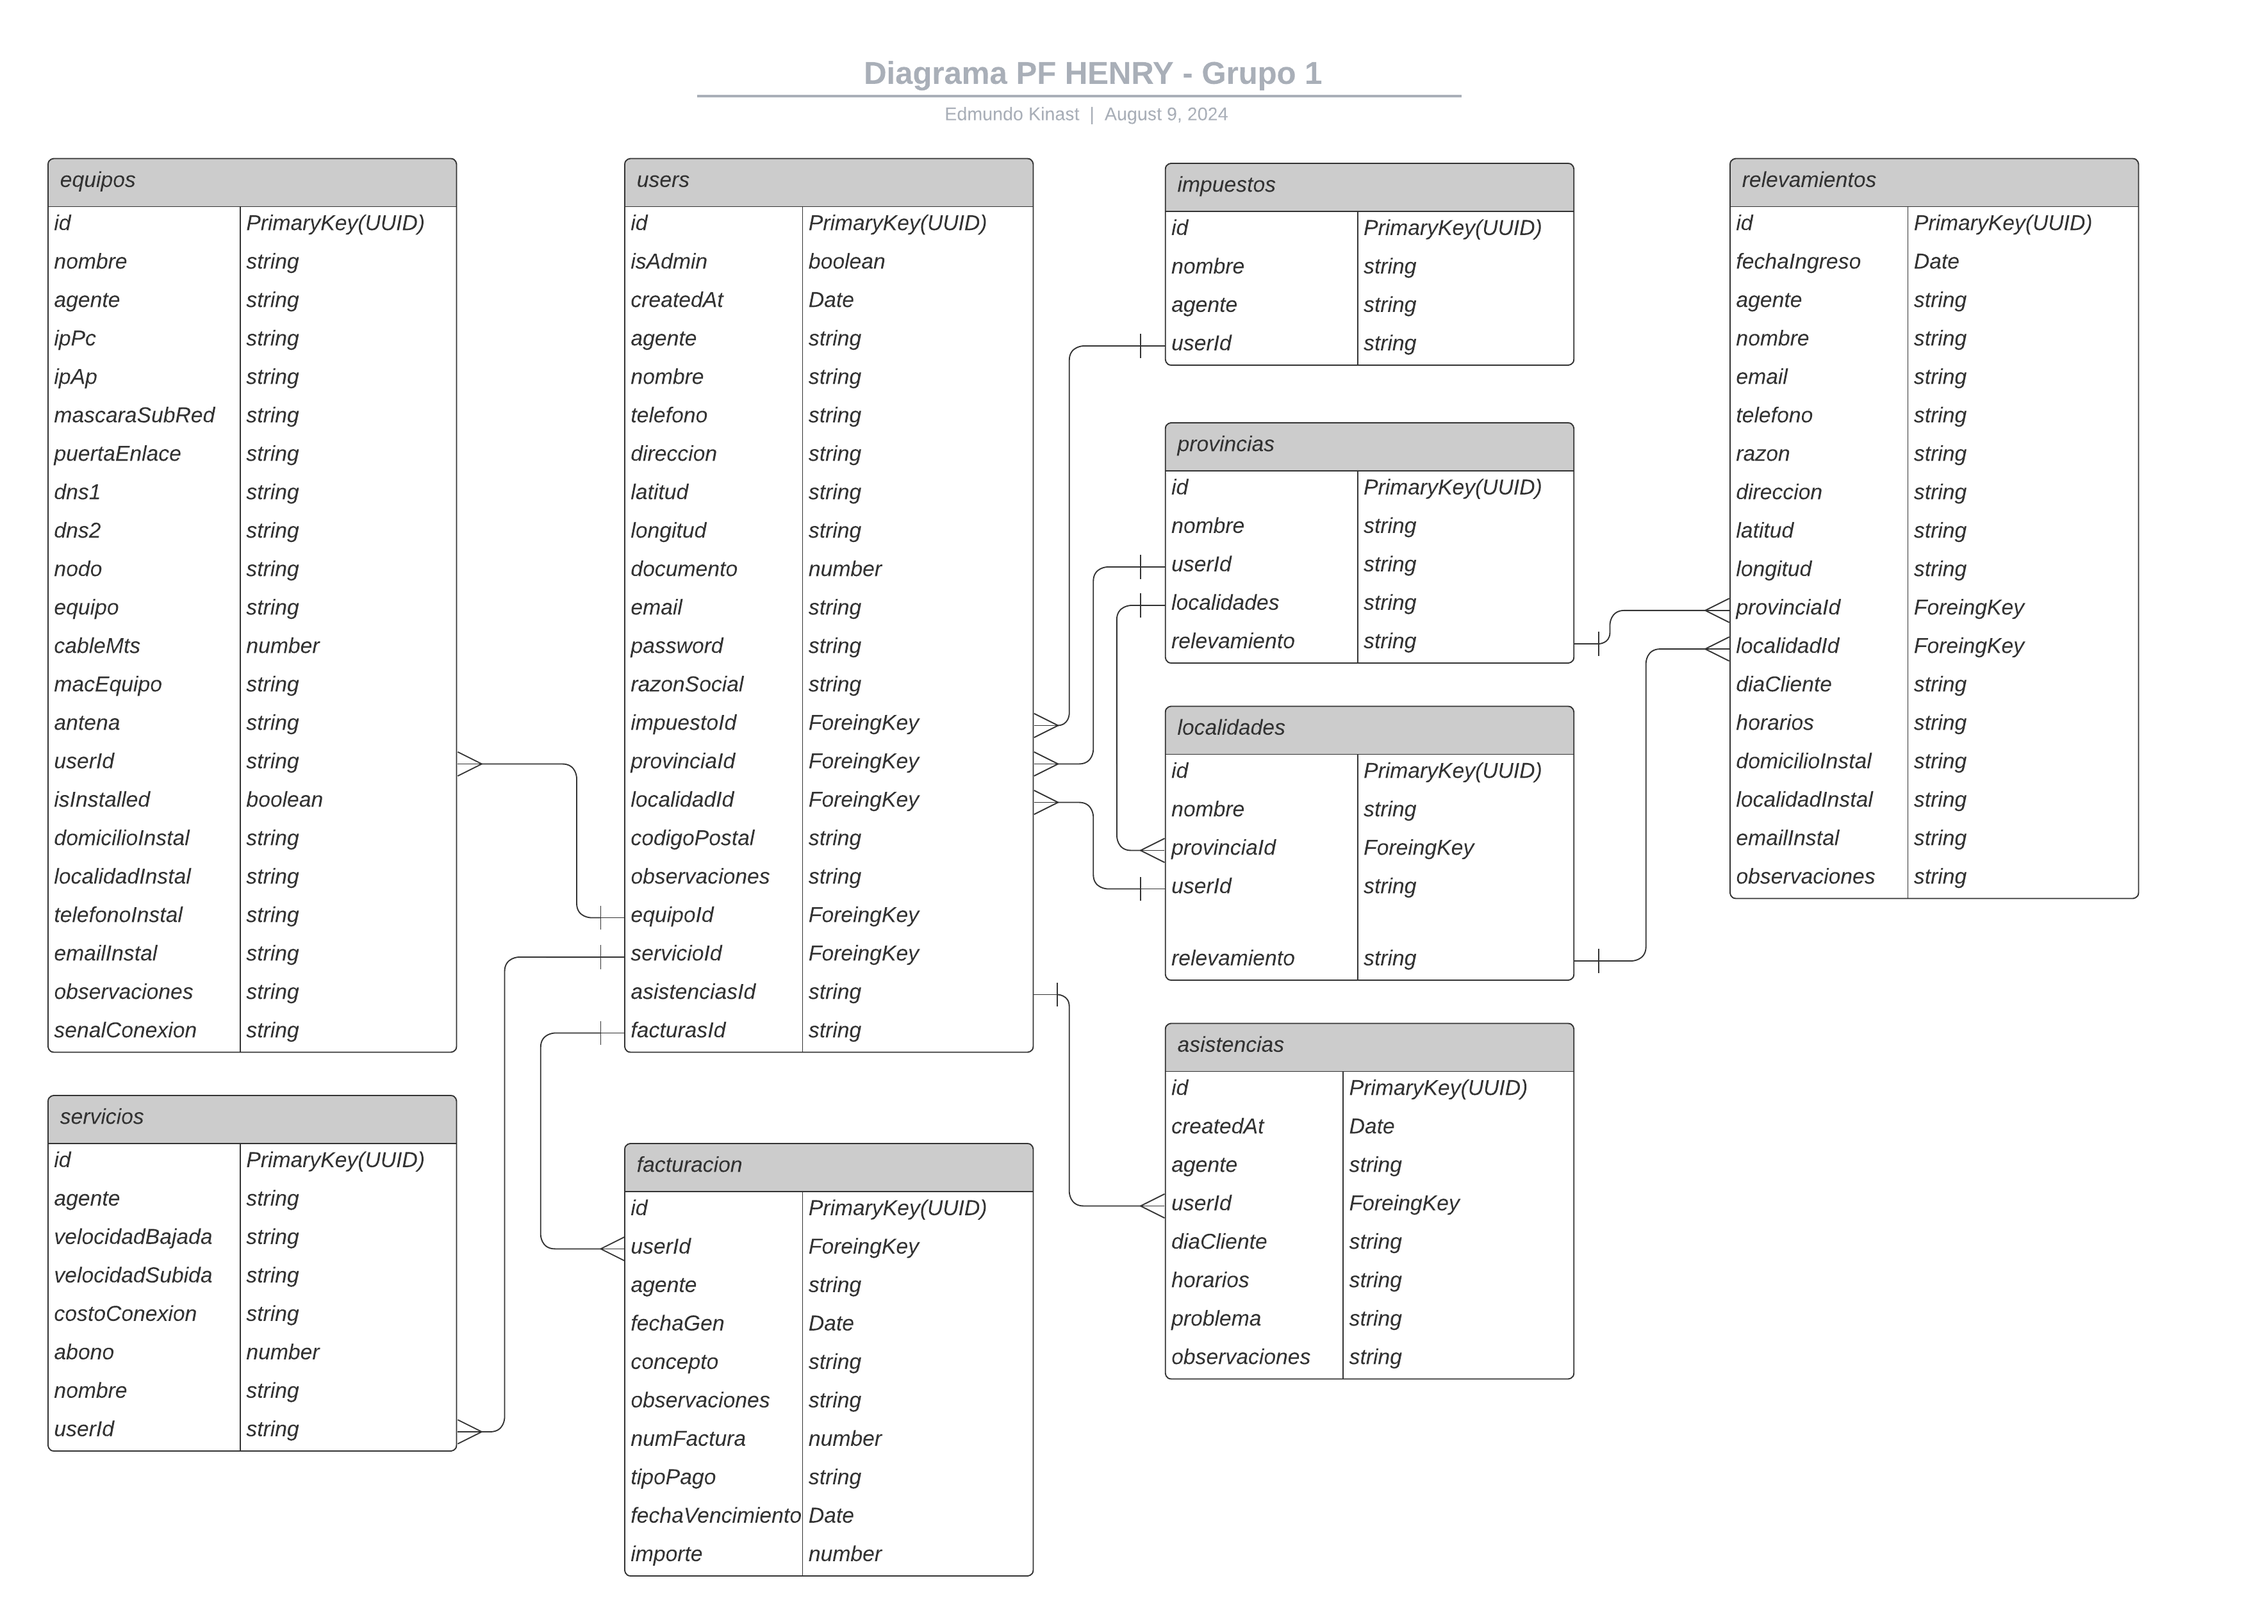
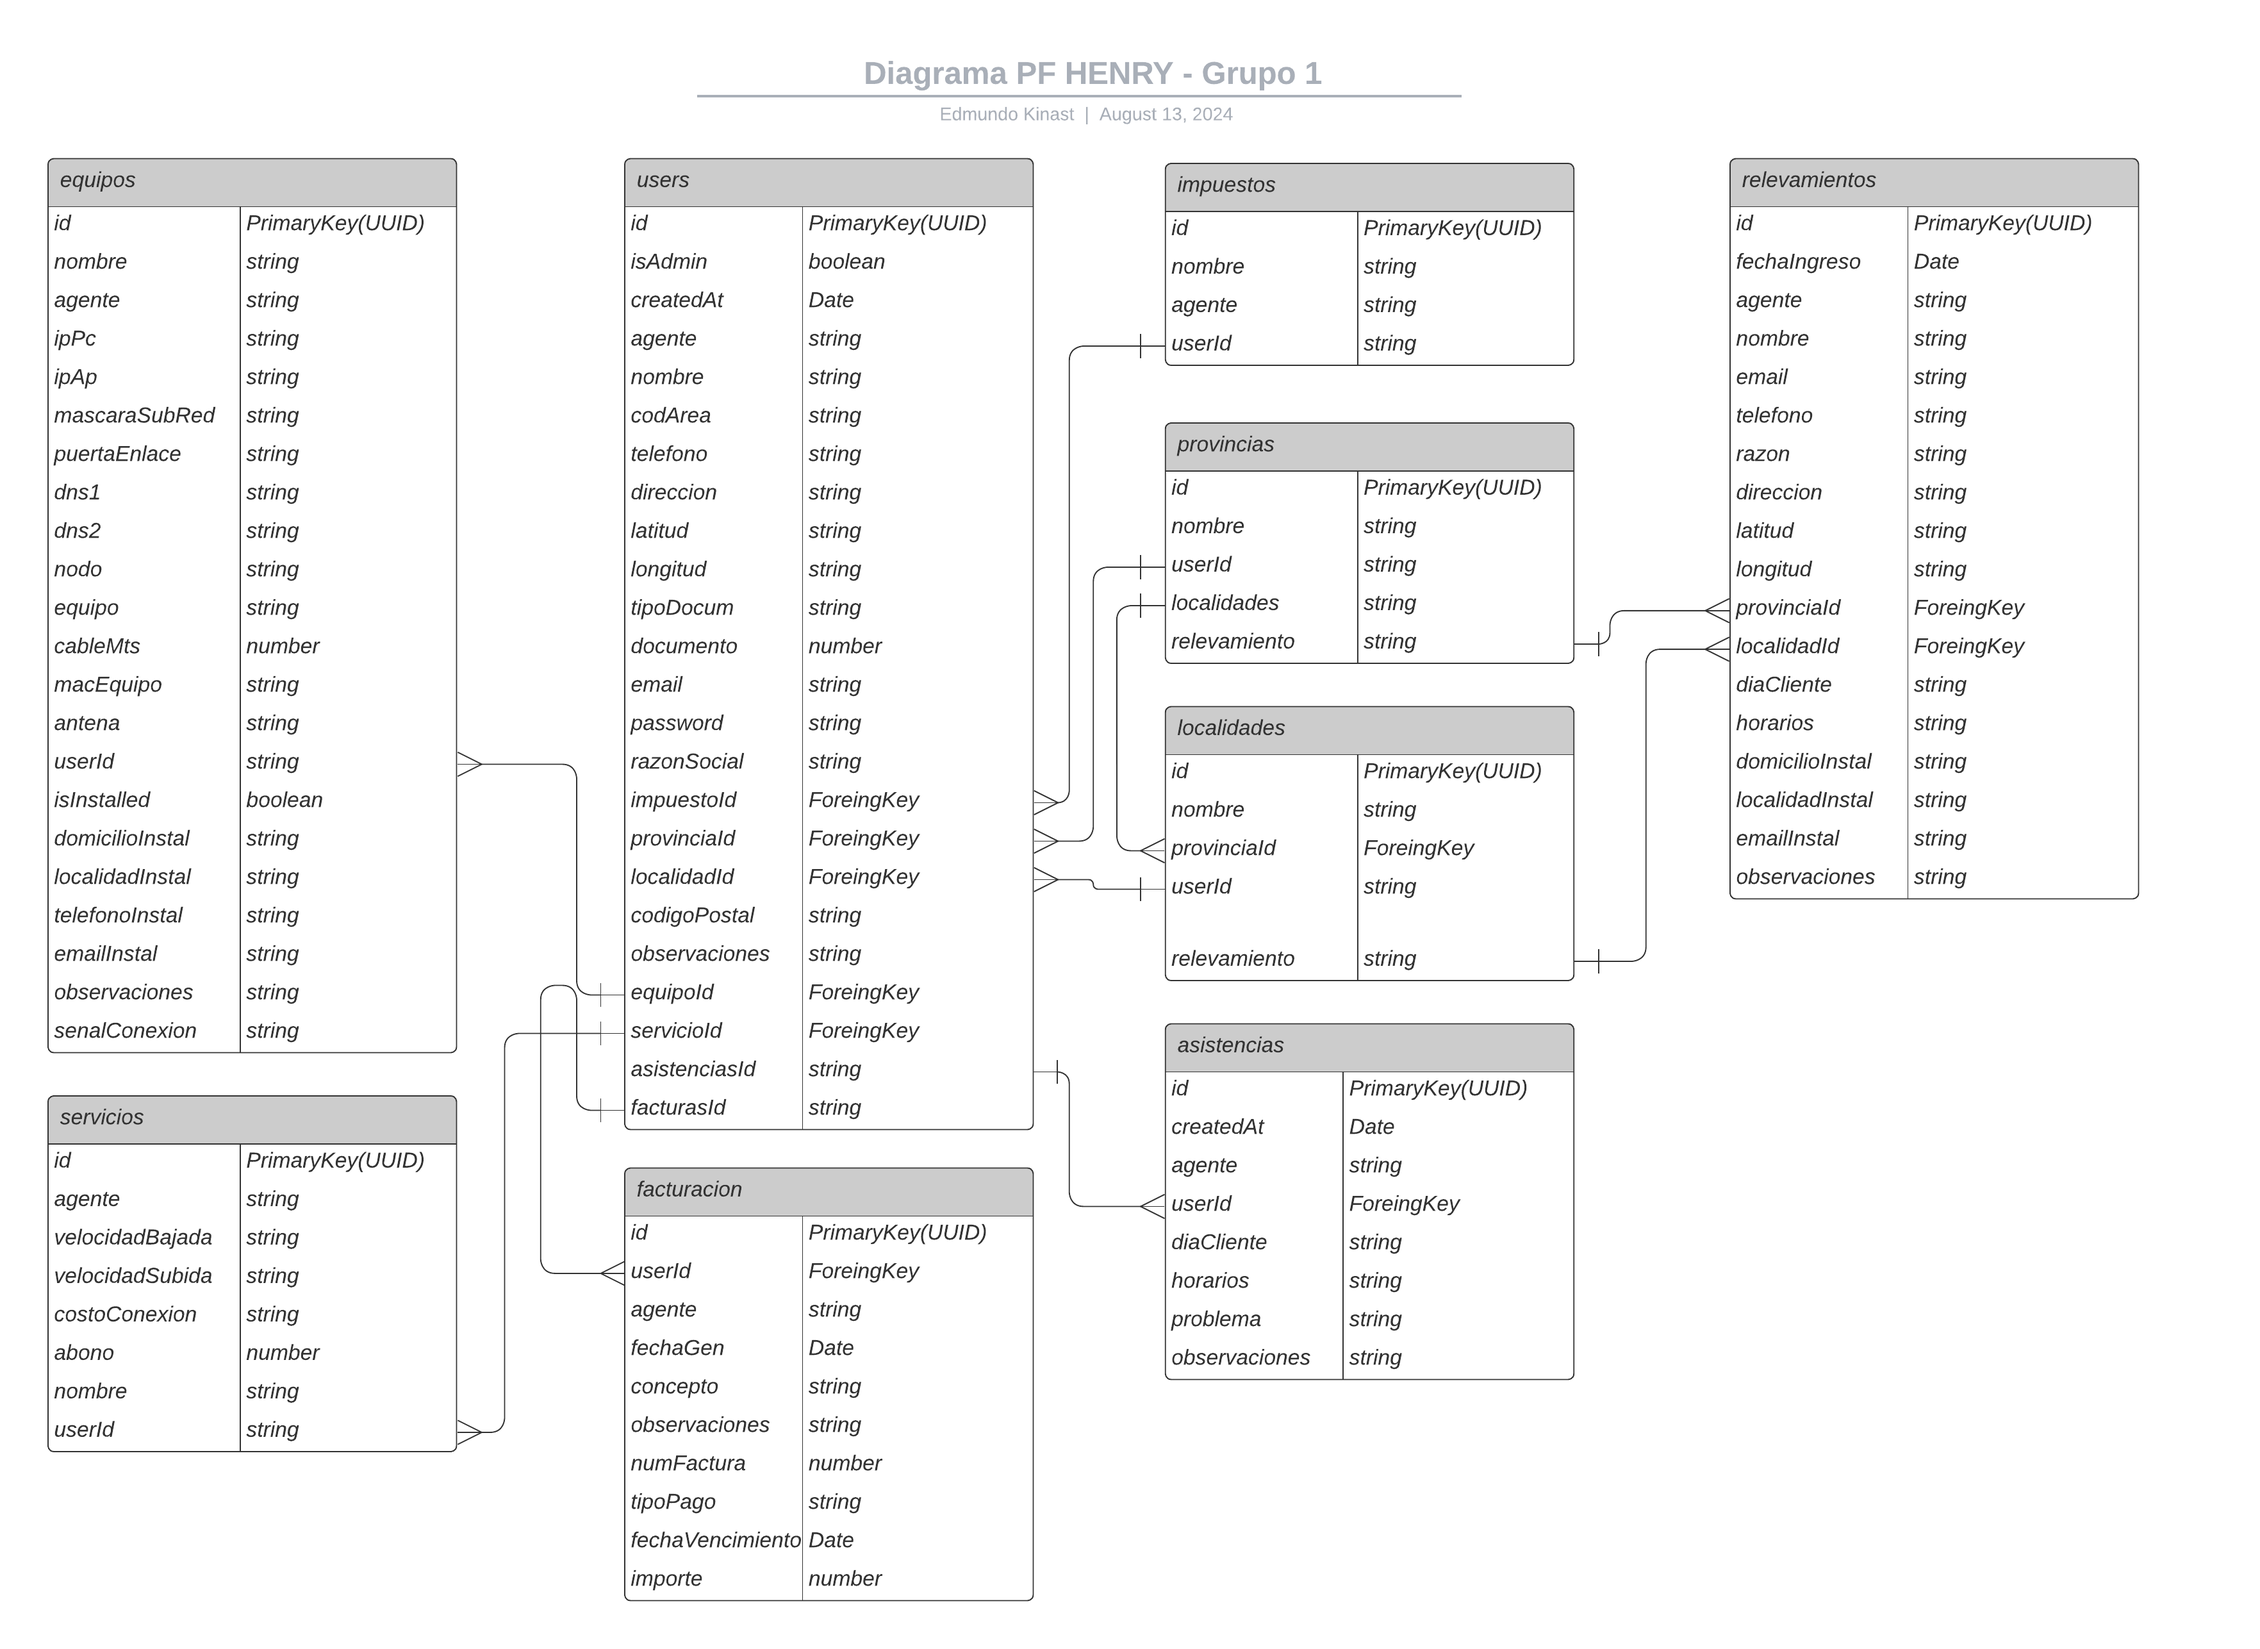
Cambios en base de datos en Render

diff --git a/src/modules/users/dto/create-user.dto.ts b/src/modules/users/dto/create-user.dto.ts
@@ -68,6 +68,15 @@ export class CreateUserDto {
   })
   nombre: string;
 
+  @IsNotEmpty({ message: 'El código de area es obligatorio.' })
+  @IsString()
+  @ApiProperty({
+    description: 'El código de area debe ser un string.',
+    example: 1234567,
+    type: String,
+  })
+  codArea: string;
+
   @IsNotEmpty({ message: 'El número de teléfono es obligatorio.' })
   @IsString()
   @ApiProperty({
@@ -109,15 +118,28 @@ export class CreateUserDto {
   longitud: number;
 
   @IsNotEmpty({
+    message: 'El tipo de documento es obligatorio y no puede estar vacío.',
+  })
+  @IsString({ message: 'El documento debe ser un juego de caracteres.' })
+  @ApiProperty({
+    description: 'El tipo de documento debe ser válido.',
+    example: 'DNI',
+    type: String,
+  })
+  tipoDocum: string;
+
+  @IsNotEmpty({
     message: 'El documento es obligatorio y no puede estar vacío.',
   })
-  @IsNumber({}, { message: 'El documento debe ser un número.' })
+  @IsString({
+    message: 'El documento puede ser una combinación de números y letras.',
+  })
   @ApiProperty({
     description: 'El documento debe ser válido.',
     example: '45123456',
-    type: Number,
+    type: String,
   })
-  documento: number;
+  documento: string;
 
   @IsNotEmpty({ message: 'El email es obligatorio y no puede estar vacío.' })
   @IsEmail({}, { message: 'El correo electrónico no es válido.' })
@@ -149,11 +171,6 @@ export class CreateUserDto {
   @Length(8, 40, {
     message: 'La razón social debe tener entre 8 y 40 caracteres.',
   })
-  // @ApiProperty({
-  //   description: 'La razón social debe ser válida.',
-  //   example: 'Café los Angelitos',
-  //   type: String,
-  // })
   razonSocial: string;
 
   @ApiHideProperty()
@@ -210,11 +227,6 @@ export class CreateUserDto {
   @IsString({
     message: 'El domicilio de instalación debe ser una cadena de texto.',
   })
-  // @ApiProperty({
-  //   description: 'El domicilio de instalación debe ser válido.',
-  //   example: 'Urquiza 3560 1°A',
-  //   type: String,
-  // })
   domicilioInstal: string;
 
   @ApiHideProperty()
@@ -222,11 +234,6 @@ export class CreateUserDto {
   @IsString({
     message: 'La localidad de instalación debe ser una cadena de texto.',
   })
-  // @ApiProperty({
-  //   description: 'La localidad de instalación debe ser válida.',
-  //   example: 'Potrerillos',
-  //   type: String,
-  // })
   localidadInstal: string;
 
   @ApiHideProperty()
@@ -235,12 +242,6 @@ export class CreateUserDto {
     {},
     { message: 'El teléfono de instalación debe ser un número entero.' },
   )
-  // @ApiProperty({
-  //   description:
-  //     'El número de teléfono de instalación debe ser un string.',
-  //   example: '1234567',
-  //   type: String,
-  // })
   telefonoInstal: string;
 
   @ApiHideProperty()
@@ -249,60 +250,34 @@ export class CreateUserDto {
     {},
     { message: 'El correo electrónico de instalación no es válido.' },
   )
-  // @ApiProperty({
-  //   description: 'El email de instalación debe ser un email válido.',
-  //   example: 'jperez@mail.com',
-  //   type: String,
-  // })
   emailInstal: string;
 
   @ApiHideProperty()
   @IsOptional()
   @IsString({ message: 'Las observaciones deben ser una cadena de texto.' })
-  // @ApiProperty({
-  //   description: 'Las observaciones deben ser válidas.',
-  //   example: 'La antena tiene acceso difícil, coordinar con el propietario',
-  // })
   observaciones: string;
 
   @ApiHideProperty()
   @IsOptional()
   @IsString({ message: 'La señal de conexión debe ser una cadena de texto.' })
-  // @ApiProperty({
-  //   description: 'El texto de la señal de conexión debe ser válido.',
-  //   example: '-65dBm',
-  //   type: String,
-  // })
   senalConexion: string;
 
   @ApiHideProperty()
   @IsUUID()
   @IsOptional()
   @IsString()
-  // @ApiProperty({
-  //   description: 'El id del equipo debe ser un id UUID válido.',
-  //   example: 'b2837f3d-48cd-476d-a64d-ade12932b606',
-  // })
   equipoId: string;
 
   @ApiHideProperty()
   @IsUUID()
   @IsOptional()
   @IsString()
-  // @ApiProperty({
-  //   description: 'El id del servicio debe ser un id UUID válido.',
-  //   example: 'fa3f2527-4125-4938-9c74-7c7bf448f8b3',
-  // })
   servicioId: string;
 
   @ApiHideProperty()
   @IsUUID()
   @IsOptional()
   @IsString()
-  // @ApiProperty({
-  //   description: 'El id del servicio debe ser un id UUID válido.',
-  //   example: 'fa3f2527-4125-4938-9c74-7c7bf448f8b3',
-  // })
   facturasId: string;
 
   constructor(createdAt?: number) {

diff --git a/src/modules/users/dto/update-user.dto.ts b/src/modules/users/dto/update-user.dto.ts
@@ -63,6 +63,15 @@ export class UpdateUserDto extends PartialType(CreateUserDto) {
   })
   nombre: string;
 
+  @IsOptional({ message: 'El código de area es obligatorio.' })
+  @IsString()
+  @ApiProperty({
+    description: 'El código de area debe ser un string.',
+    example: +54351,
+    type: String,
+  })
+  codArea: string;
+
   @IsOptional()
   @IsString()
   @ApiProperty({
@@ -103,14 +112,25 @@ export class UpdateUserDto extends PartialType(CreateUserDto) {
   })
   longitud: number;
 
+  @IsOptional({
+    message: 'El tipo de documento es obligatorio y no puede estar vacío.',
+  })
+  @IsString({ message: 'El documento debe ser un juego de caracteres.' })
+  @ApiProperty({
+    description: 'El tipo de documento debe ser válido.',
+    example: 'DNI',
+    type: String,
+  })
+  tipoDocum: string;
+
   @IsOptional()
   @IsNumber({}, { message: 'El documento debe ser un número.' })
   @ApiProperty({
     description: 'El documento debe ser válido.',
     example: '45123456',
-    type: Number,
+    type: String,
   })
-  documento: number;
+  documento: string;
 
   @IsOptional()
   @IsEmail({}, { message: 'El correo electrónico no es válido.' })

diff --git a/src/migrations/1723567911055-inicial.ts b/src/migrations/1723567911055-inicial.ts
@@ -1,0 +1,27 @@
+import { MigrationInterface, QueryRunner } from 'typeorm';
+
+export class Inicial1723567911055 implements MigrationInterface {
+  name = 'Inicial1723567911055';
+
+  public async up(queryRunner: QueryRunner): Promise<void> {
+    await queryRunner.query(
+      `ALTER TABLE "users" ADD "codArea" character varying NOT NULL DEFAULT '261'`,
+    );
+    await queryRunner.query(
+      `ALTER TABLE "users" ADD "tipoDocum" character varying(20) NOT NULL DEFAULT 'DNI'`,
+    );
+    await queryRunner.query(`ALTER TABLE "users" DROP COLUMN "documento"`);
+    await queryRunner.query(
+      `ALTER TABLE "users" ADD "documento" character varying(20) NOT NULL DEFAULT '00000000'`,
+    );
+  }
+
+  public async down(queryRunner: QueryRunner): Promise<void> {
+    await queryRunner.query(`ALTER TABLE "users" DROP COLUMN "documento"`);
+    await queryRunner.query(
+      `ALTER TABLE "users" ADD "documento" integer NOT NULL`,
+    );
+    await queryRunner.query(`ALTER TABLE "users" DROP COLUMN "tipoDocum"`);
+    await queryRunner.query(`ALTER TABLE "users" DROP COLUMN "codArea"`);
+  }
+}

diff --git a/src/modules/users/entities/user.entity.ts b/src/modules/users/entities/user.entity.ts
@@ -45,7 +45,10 @@ export class User {
   @Column({ length: 50, nullable: false })
   nombre: string;
 
-  @Column({ type: 'varchar' })
+  @Column({ type: 'varchar', nullable: false, default: '261' })
+  codArea: string;
+
+  @Column({ type: 'varchar', nullable: false })
   telefono: string;
 
   @Column()
@@ -57,8 +60,11 @@ export class User {
   @Column('double precision')
   longitud: number;
 
-  @Column()
-  documento: number;
+  @Column({ length: 20, nullable: false, default: 'DNI' })
+  tipoDocum: string;
+
+  @Column({ length: 20, nullable: false, default: '00000000' })
+  documento: string;
 
   @Column({ length: 50, nullable: false, unique: true })
   email: string;

diff --git a/src/config/typeorm.ts b/src/config/typeorm.ts
@@ -12,9 +12,12 @@ const config = {
   username: process.env.DB_USER,
   password: process.env.DB_PASSWORD,
   autoLoadEntities: true,
-  synchronize: true,
+  synchronize: false,
   extra: {
     timezone: 'America/Buenos_Aires', // Establecer la zona horaria aquí
+  },
+  ssl: {
+    rejectUnauthorized: false, // Importante para Render, que utiliza certificados SSL autofirmados.
   },
   //dropSchema: true,
   //logging: true,

diff --git a/src/modules/auths/auths.controller.ts b/src/modules/auths/auths.controller.ts
@@ -67,7 +67,7 @@ export class AuthsController {
   }
 
   @Post('change-password')
-  @UseGuards(AuthGuard) // Asegura que solo los usuarios autenticados puedan cambiar la contraseña
+  @UseGuards(AuthGuard)
   @ApiOperation({ summary: 'Cambio de contraseña por parte del usuario' })
   @HttpCode(HttpStatus.OK)
   @UsePipes(new ValidationPipe({ transform: true }))
